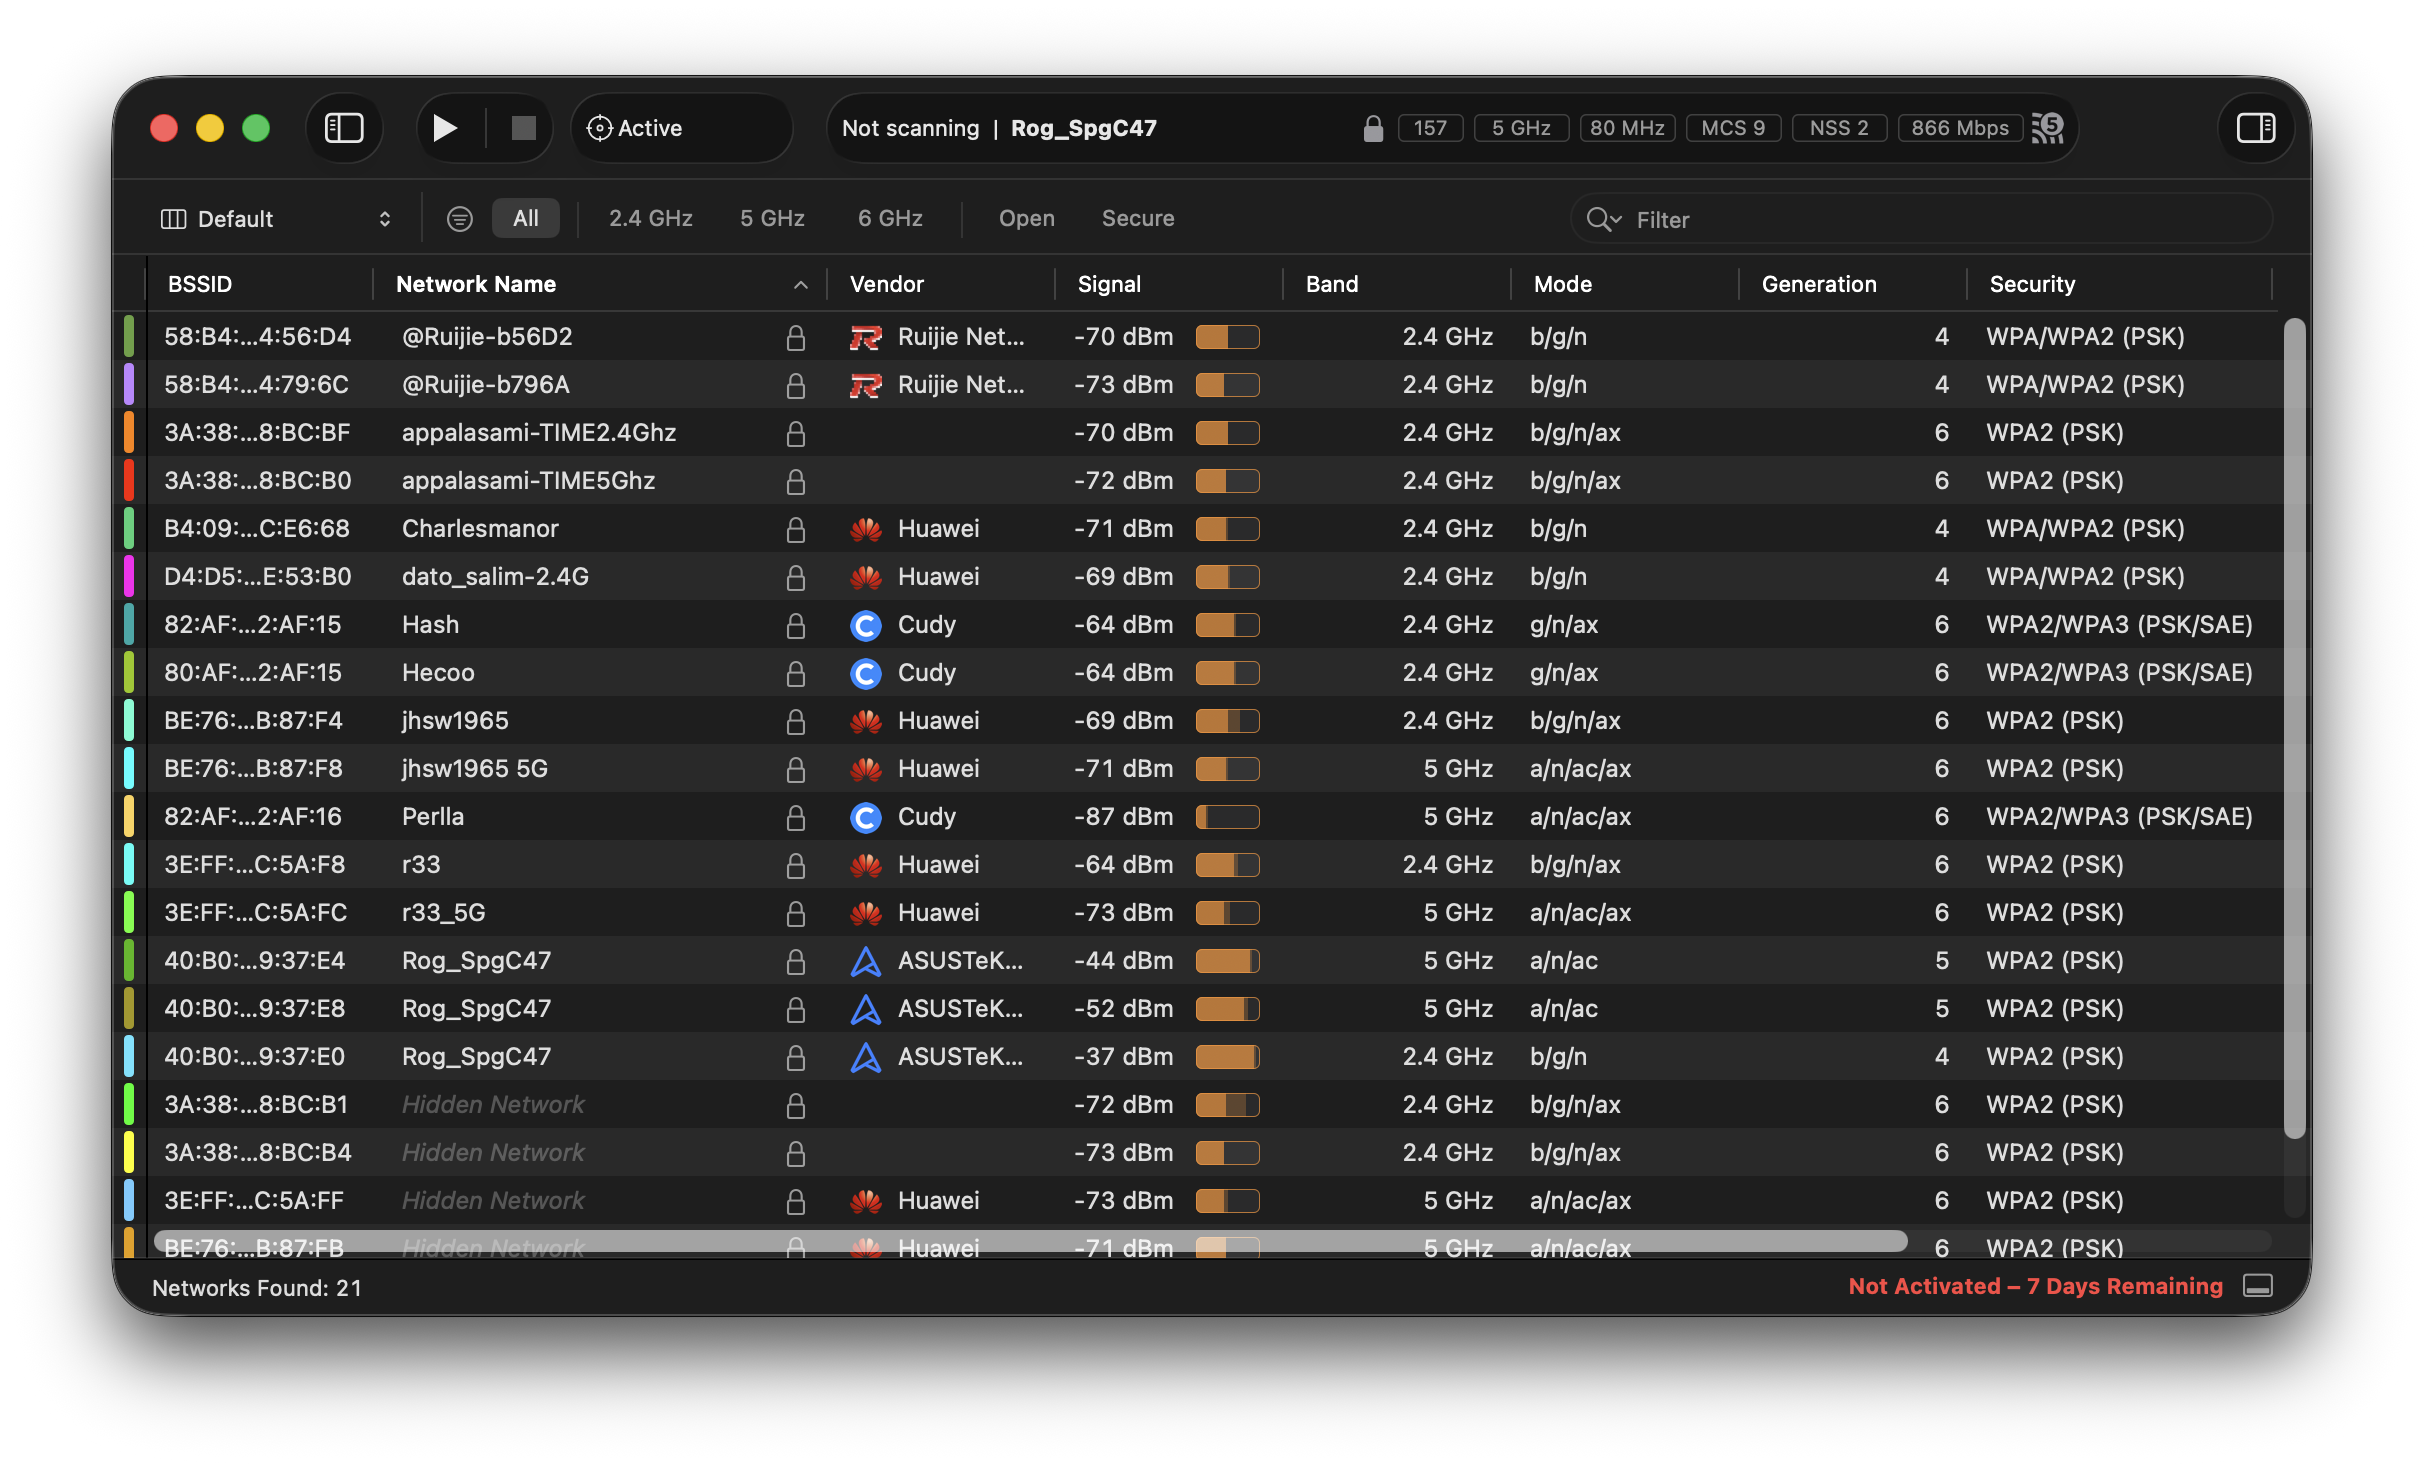
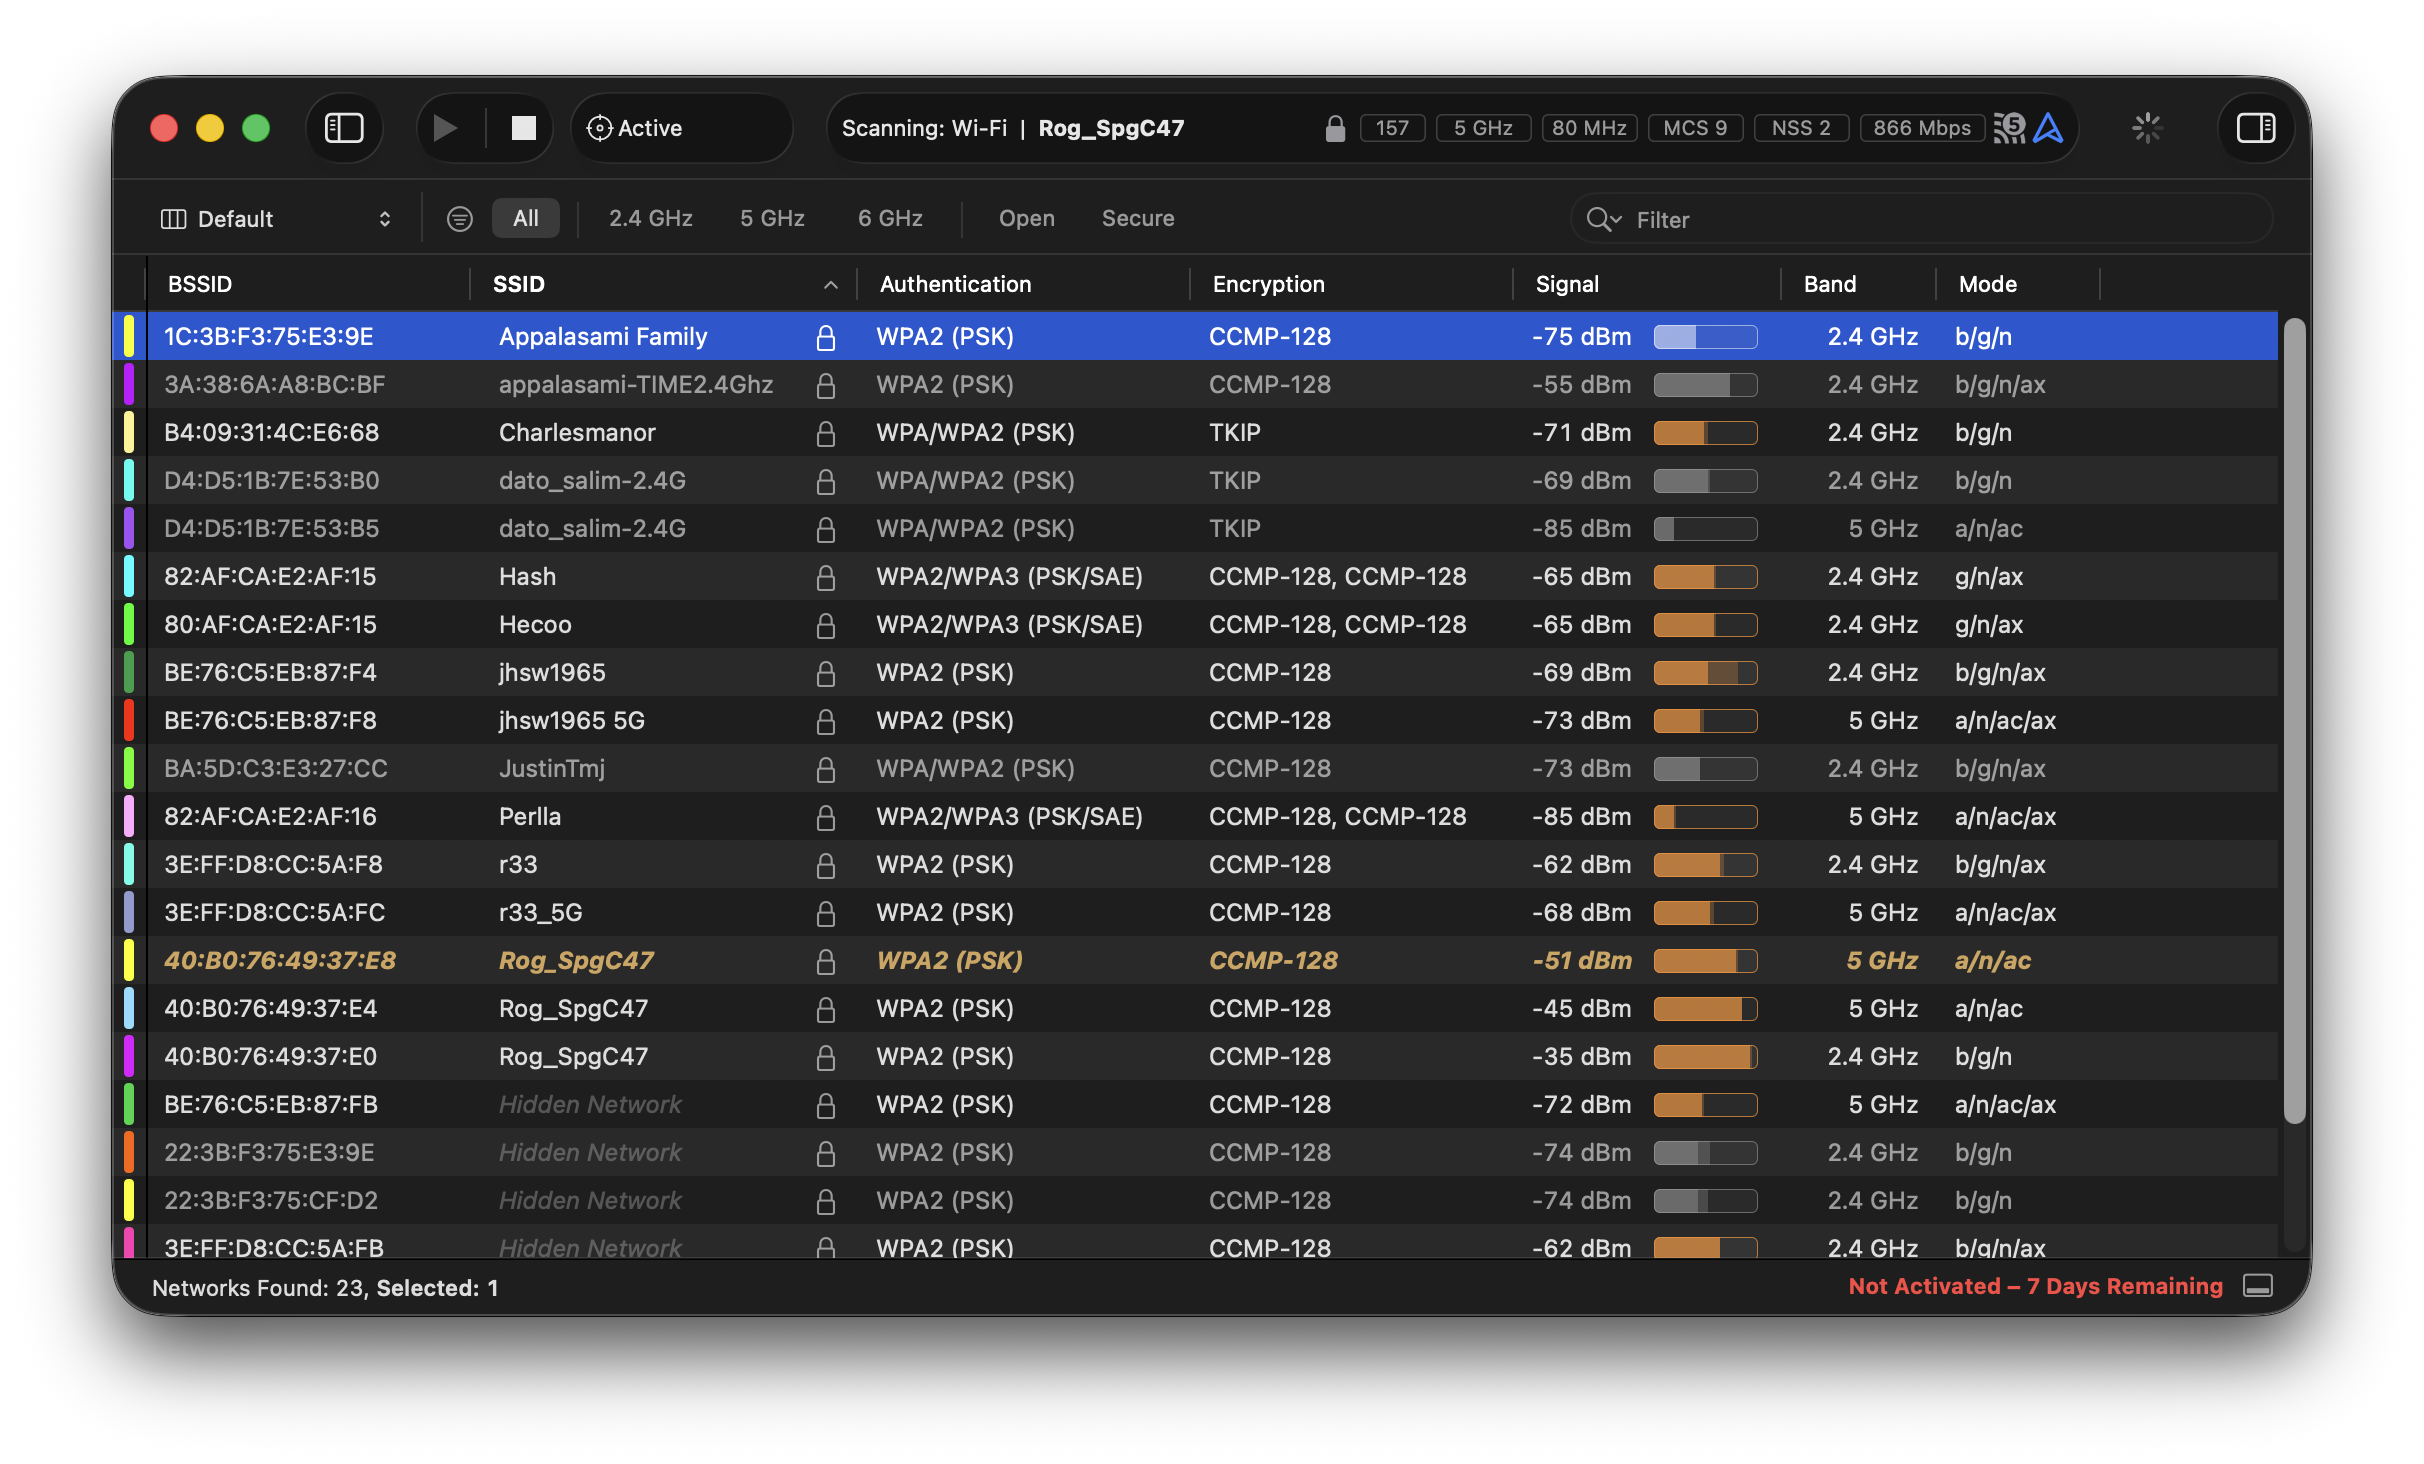
Bài 1

Changed region(s): [[0.0309, 0.1844, 0.9592, 0.8914], [0.5569, 0.0615, 0.8663, 0.0922], [0.3403, 0.0615, 0.495, 0.0922]]

diff --git a/content/chapter01.md b/content/chapter01.md
@@ -39,4 +39,48 @@ Danh sách các mạng Wi-Fi xung quanh khu vực sinh viên học tập:
 - Luôn yêu cầu xác thực (không có mạng mở free-wifi).
 - Tín hiệu khá tốt ở hầu hết các WIFI (trên 50%).
 
-![Bài 1. Danh sách Wi-Fi xung quanh](assets/01-01-wifi-list.png)
+![Bài 1. Danh Sách Wi-Fi Tìm Thấy](assets/01-01-wifi-list.png)
+
+### Bảng Liệt Kê Và Đánh Giá
+
+- Encryption cho biết rõ là CCMP bao nhiêu bit.
+- Signal hiển thị ở dạng số nguyên, giá trị càng lớn, wifi càng mạnh.
+
+<!-- | STT  | SSID                | Authentication      | Encryption         | Signal (dBm) | Đánh Giá |
+| ---- | ------------------- | ------------------- | ------------------ | ------------ | -------- |
+| 1    | \@Ruijie-b56D2      | WPA/WPA2 (PSK)      | CCMP-128           | -70          | Tốt      |
+| 2    | Appalasami Family   | WPA2 (PSK)          | CCMP-128           | -71          | Tốt      |
+| 3    | appalasami-TIME5Ghz | WPA2 (PSK)          | CCMP-128           | -73          | Tốt      |
+| 4    | Charlesmanor        | WPA/WPA2 (PSK)      | TKIP               | -71          | Tốt      |
+| 5    | dato\_salim\_2.4G   | WPA/WPA2 (PSK)      | TKIP               | -69          | Tốt      |
+| 6    | Hash                | WPA2/WPA3 (PSK/SAE) | CCMP-128           | -64          | Rất Tốt  |
+| 7    | Hecoo               | WPA2/WPA3 (PSK/SAE) | CCMP-128           | -63          | Rất Tốt  |
+| 8    | jhsw1965 5G         | WPA2 (PSK)          | CCMP-128           | -71          | Tốt      |
+| 9    | JustinTmj           | WPA/WPA2 (PSK)      | CCMP-128           | -74          | Tốt      |
+| 10   | Perlla              | WPA2/WPA3 (PSK/SAE) | CCMP-128           | -87          | Rất Tốt  |
+| 11   | r33_5G              | WPA2 (PSK)          | CCMP-128           | -70          | Tốt      |
+| 12   | Rog_SpgC47          | WPA2 (PSK)          | CCMP-128           | -46          | Tốt      | -->
+
+```{=typst}
+#show table.cell: set text(size: 0.8em)
+#figure(
+  table(
+    columns: (5%, 25%, 30%, 14%, 15%, 12%),
+    align: (left, left, left, left, right, left),
+    [STT], [SSID], [Authentication], [Encryption], [Signal (dBm)], [Đánh Giá],
+    [1], [\@Ruijie-b56D2], [WPA/WPA2 (PSK)], [CCMP-128], [\-70], [Tốt],
+    [2], [Appalasami Family], [WPA2 (PSK)], [CCMP-128], [\-71], [Tốt],
+    [3], [appalasami-TIME5Ghz], [WPA2 (PSK)], [CCMP-128], [\-73], [Tốt],
+    [4], [Charlesmanor], [WPA/WPA2 (PSK)], [TKIP], [\-71], [Tốt],
+    [5], [dato\_salim\_2.4G], [WPA/WPA2 (PSK)], [TKIP], [\-69], [Tốt],
+    [6], [Hash], [WPA2/WPA3 (PSK/SAE)], [CCMP-128], [\-64], [Rất Tốt],
+    [7], [Hecoo], [WPA2/WPA3 (PSK/SAE)], [CCMP-128], [\-63], [Rất Tốt],
+    [8], [jhsw1965 5G], [WPA2 (PSK)], [CCMP-128], [\-71], [Tốt],
+    [9], [JustinTmj], [WPA/WPA2 (PSK)], [CCMP-128], [\-74], [Tốt],
+    [10], [Perlla], [WPA2/WPA3 (PSK/SAE)], [CCMP-128], [\-87], [Rất Tốt],
+    [11], [r33\_5G], [WPA2 (PSK)], [CCMP-128], [\-70], [Tốt],
+    [12], [Rog\_SpgC47], [WPA2 (PSK)], [CCMP-128], [\-46], [Tốt]
+  ),
+caption: [Bài 1. Bảng Liệt Kê Và Đánh Giá WIFI]
+)
+```
